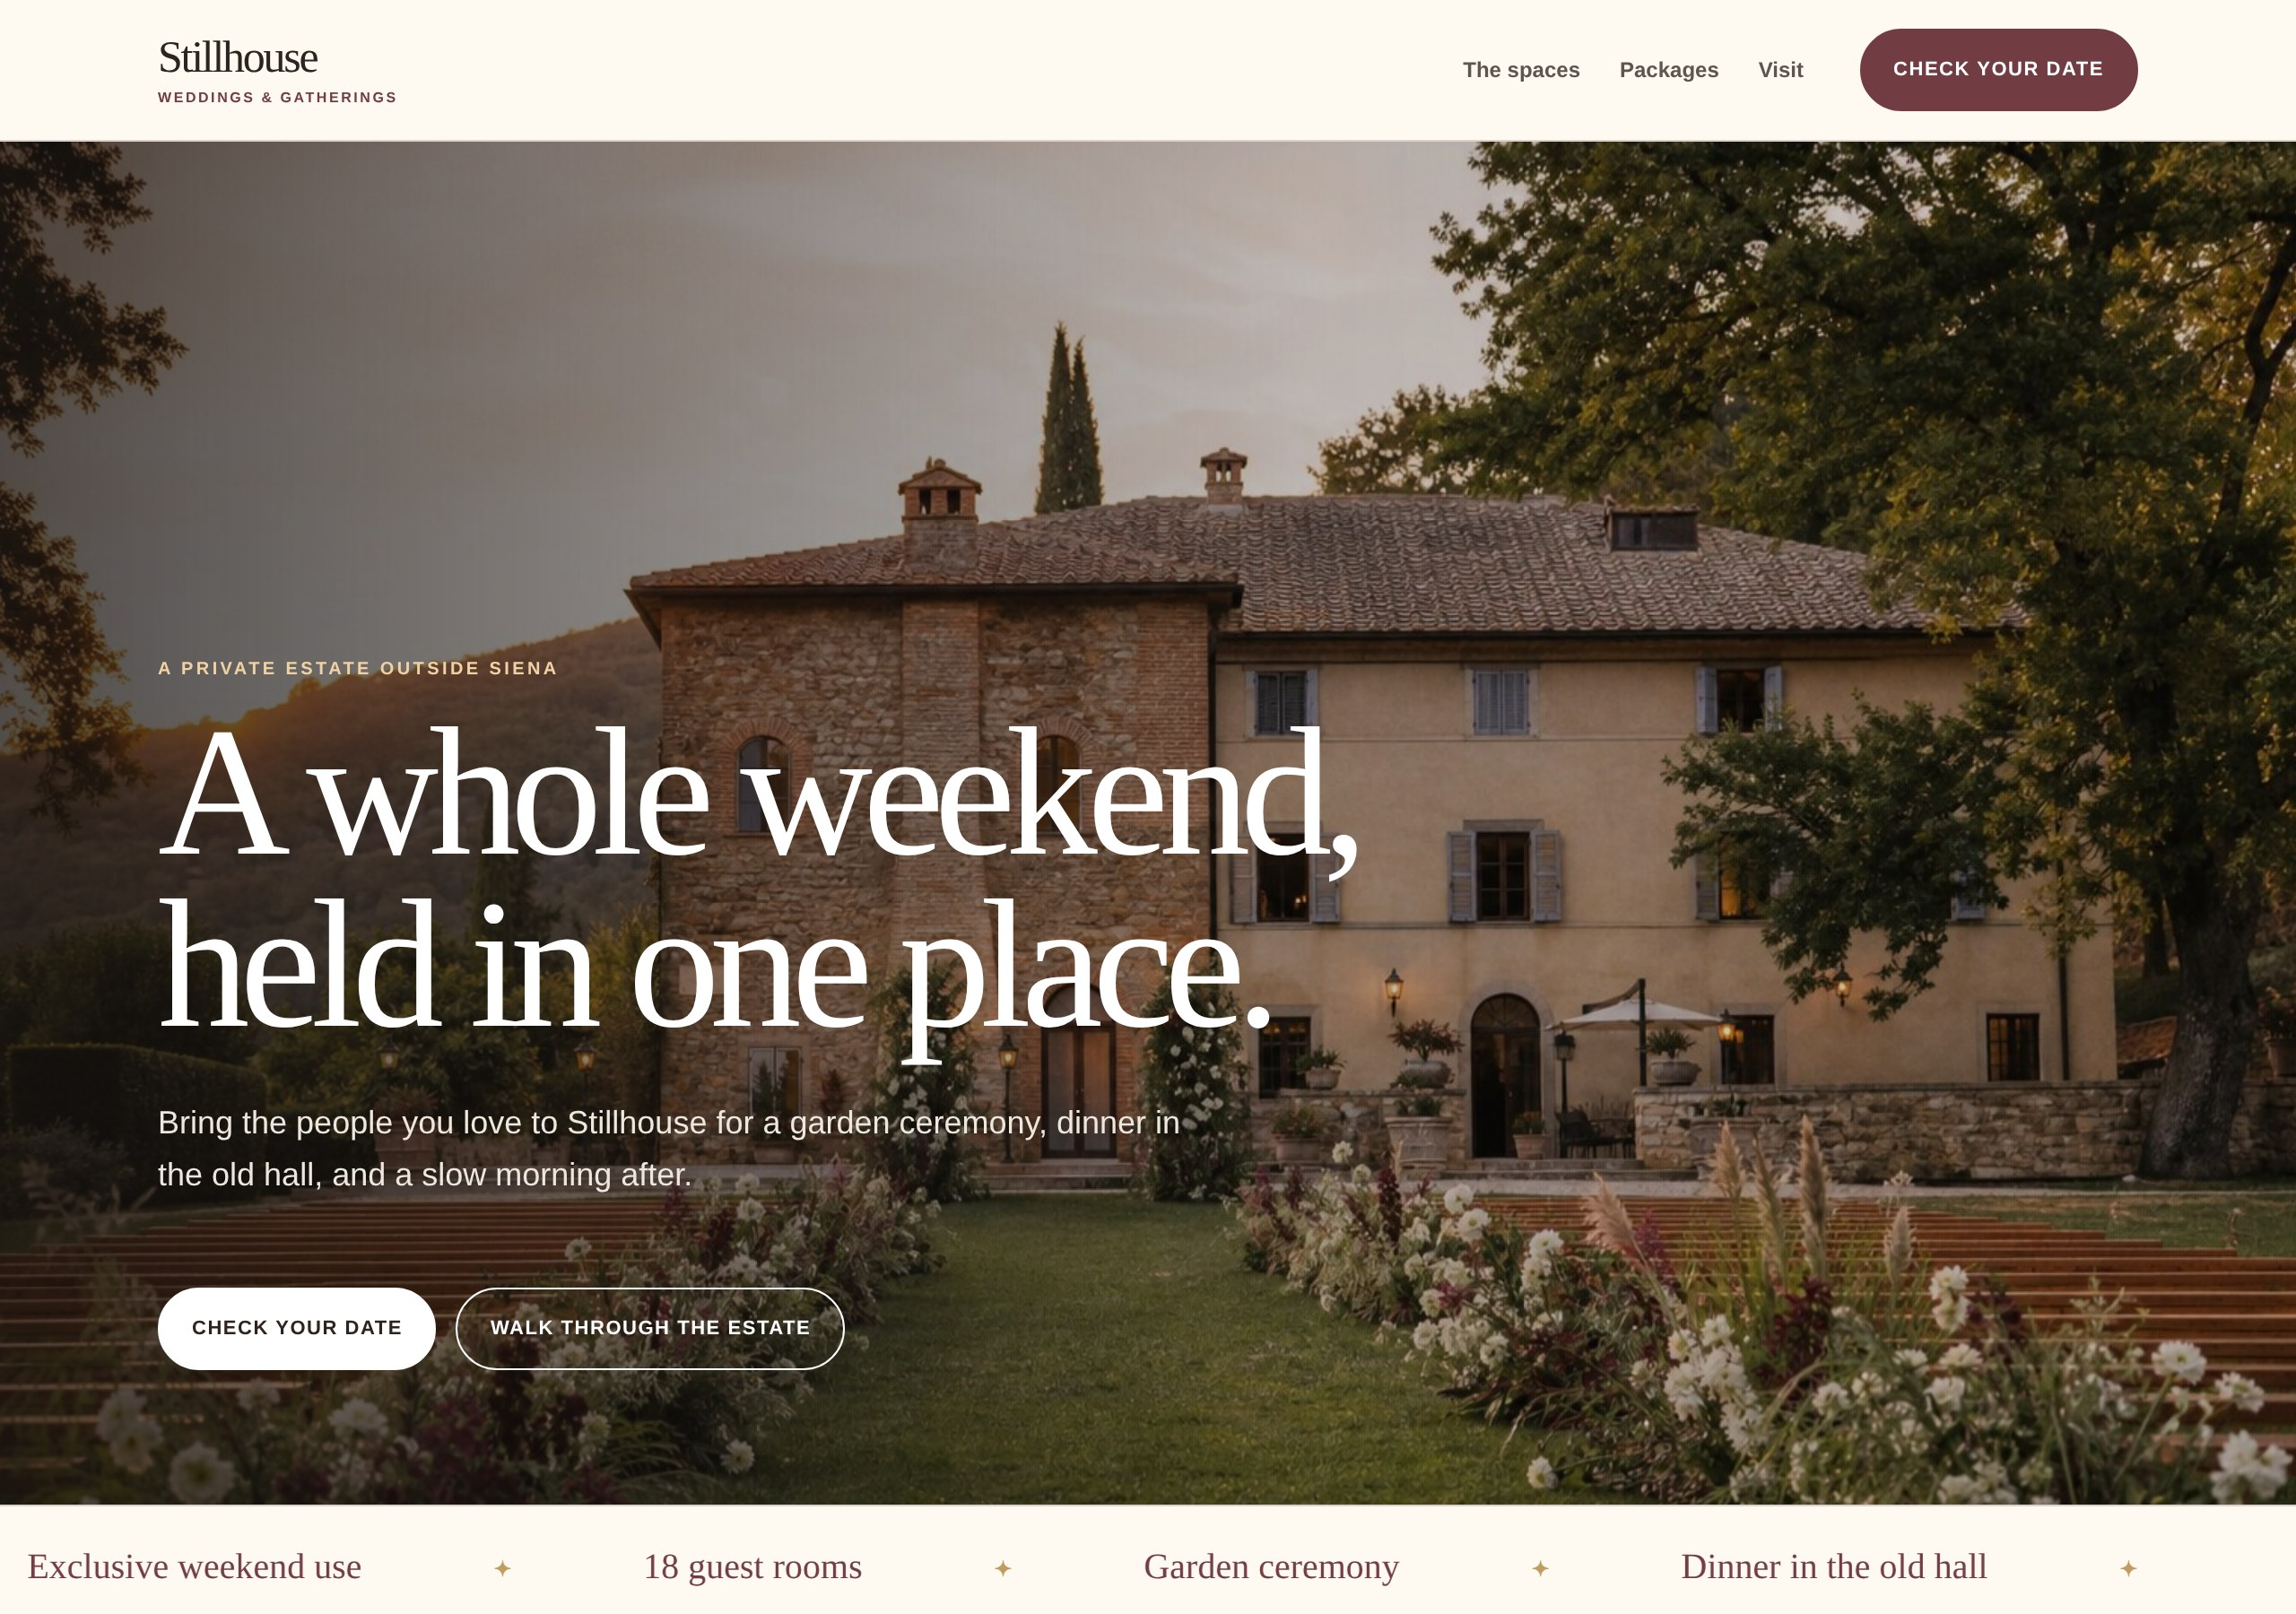
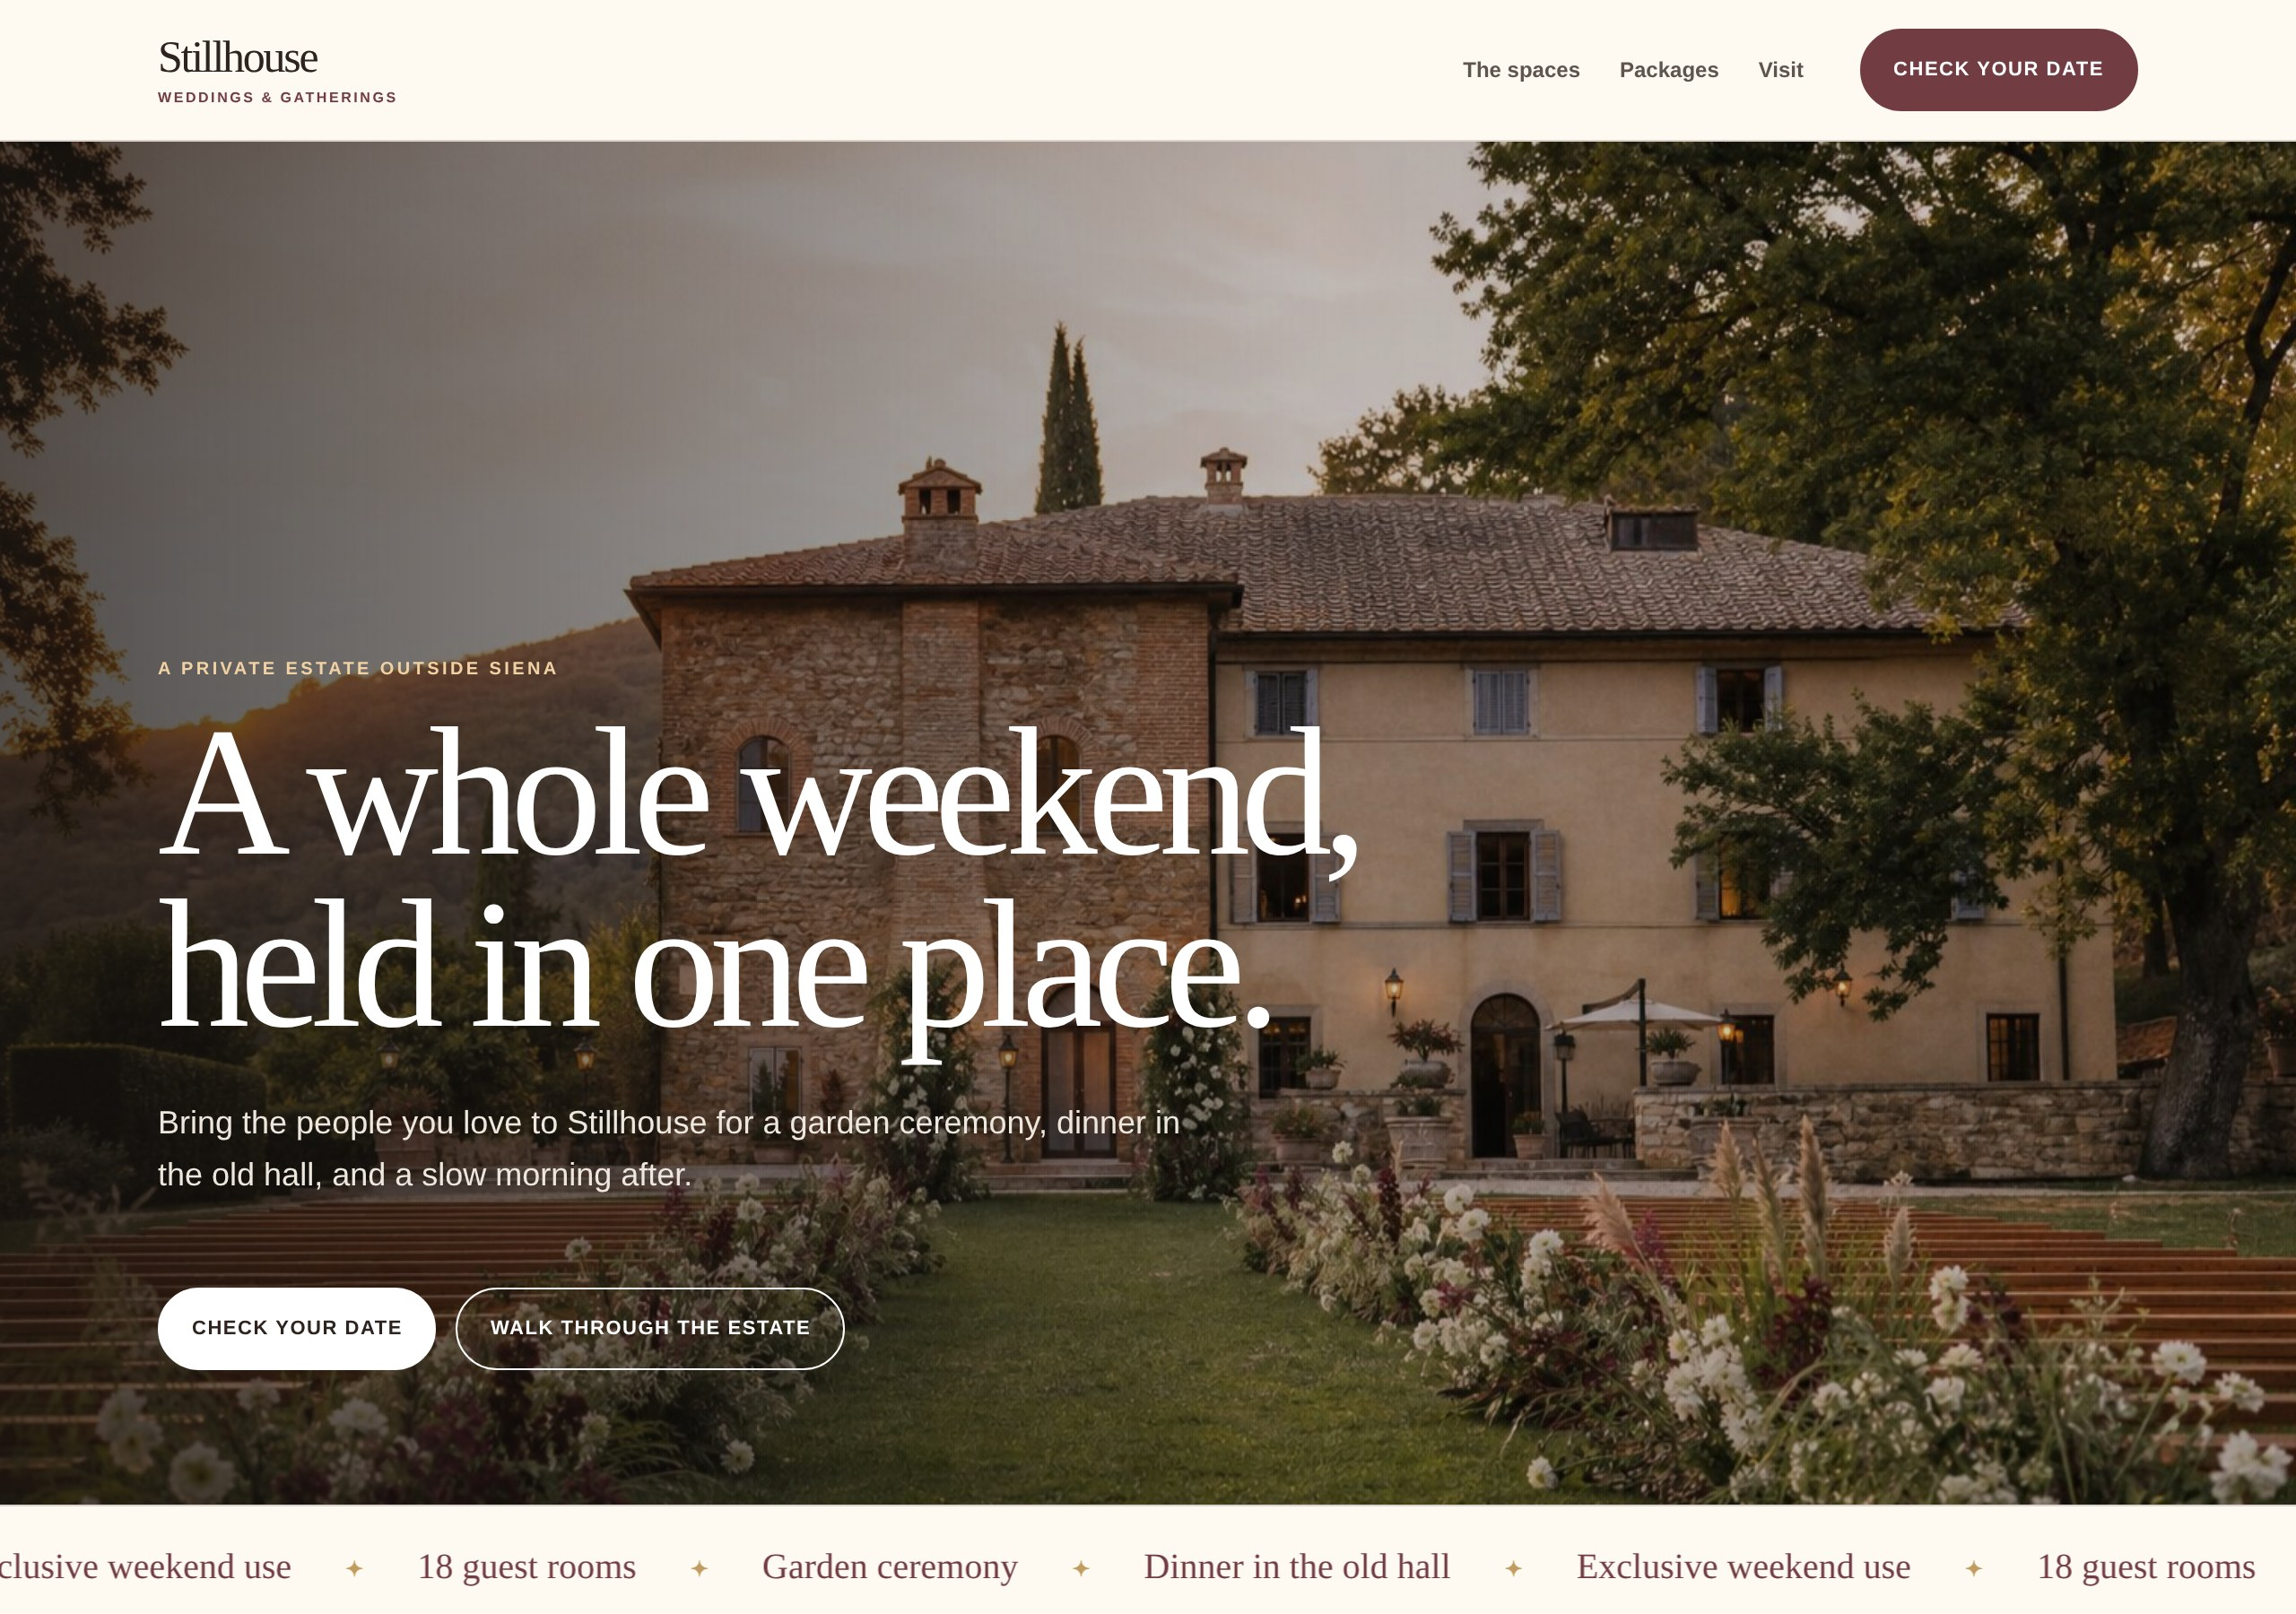
Refine marquee loop speed and spacing

diff --git a/templates/handmade-skincare-shop/index.html b/templates/handmade-skincare-shop/index.html
@@ -7,7 +7,8 @@
   <style>
     :root{--sb-cream:#f3eee3;--sb-paper:#fffaf0;--sb-ink:#26342b;--sb-muted:#687168;--sb-olive:#53634c;--sb-clay:#b8613f;--sb-oat:#d8c29b;--sb-line:rgba(38,52,43,.16);--sb-max-width:1200px;--sb-section-x:clamp(20px,5vw,58px);--sb-section-y:clamp(64px,8vw,110px);--sb-serif:Georgia,'Times New Roman',serif;--sb-sans:Arial,Helvetica,sans-serif}*{box-sizing:border-box}html{scroll-behavior:smooth}body{margin:0;background:var(--sb-cream);color:var(--sb-ink);font-family:var(--sb-sans)}a{color:inherit;text-decoration:none}img{display:block;width:100%;max-width:100%}button,input{font:inherit}[hidden]{display:none!important}.sb-page{overflow:hidden}.sb-section-inner,.sb-nav{width:min(100%,var(--sb-max-width));margin:auto;padding-left:var(--sb-section-x);padding-right:var(--sb-section-x)}.sb-section-inner{padding-top:var(--sb-section-y);padding-bottom:var(--sb-section-y)}.eyebrow{margin:0 0 15px;color:var(--sb-clay);font-size:10px;font-weight:800;letter-spacing:.17em;text-transform:uppercase}h1,h2,h3,p{margin-top:0}h1,h2{font-family:var(--sb-serif);font-weight:400;letter-spacing:-.055em;line-height:.94}h1{max-width:690px;margin-bottom:24px;font-size:clamp(52px,7.8vw,100px)}h2{max-width:720px;margin-bottom:20px;font-size:clamp(38px,5vw,66px)}h3{margin-bottom:9px;font-size:18px}.lead{max-width:580px;color:var(--sb-muted);font-size:18px;line-height:1.65}.sb-nav-wrap{position:relative;z-index:5;background:var(--sb-paper);border-bottom:1px solid var(--sb-line)}.sb-nav{min-height:76px;display:flex;align-items:center;gap:26px}.sb-brand{font-family:var(--sb-serif);font-size:25px;letter-spacing:-.045em}.sb-brand small{display:block;margin-top:2px;color:var(--sb-clay);font-family:var(--sb-sans);font-size:8px;font-weight:800;letter-spacing:.17em;text-transform:uppercase}.sb-nav-links{display:flex;gap:22px;margin-left:auto;color:#5d665e;font-size:12px;font-weight:700}.sb-nav-actions{margin-left:4px}.sb-btn{display:inline-flex;align-items:center;justify-content:center;min-height:46px;padding:12px 18px;border:1px solid var(--sb-ink);border-radius:999px;font-size:11px;font-weight:800;letter-spacing:.07em;text-transform:uppercase;transition:transform .2s ease,background-color .2s ease,color .2s ease}.sb-btn:hover{transform:translateY(-2px);background:var(--sb-ink);color:#fff}.sb-btn-primary{border-color:var(--sb-ink);background:var(--sb-ink);color:#fff}.sb-nav-toggle{display:none;margin-left:auto;border:0;background:transparent;font-size:23px}.sb-mobile-menu{padding:0 var(--sb-section-x) 17px;background:var(--sb-paper)}.sb-mobile-menu a{display:block;padding:10px 0;font-size:13px;font-weight:700}.hero{background:var(--sb-oat)}.hero-grid{display:grid;grid-template-columns:.88fr 1.12fr;align-items:stretch}.hero-copy{padding:clamp(72px,10vw,132px) var(--sb-section-x);padding-left:max(var(--sb-section-x),calc((100vw - var(--sb-max-width))/2 + var(--sb-section-x)))}.hero-copy .lead{color:#596457}.hero-visual{min-height:670px;overflow:hidden}.hero-visual img{height:100%;object-fit:cover;animation:sb-image-drift 12s ease-in-out infinite alternate;will-change:transform}.hero-actions{display:flex;flex-wrap:wrap;gap:11px;margin-top:29px}.hero-note{margin:25px 0 0;color:#596457;font-size:12px;font-weight:700}.sb-marquee{min-height:66px;display:flex;align-items:center;overflow:hidden;background:var(--sb-ink);color:#fffaf0;border-top:1px solid rgba(255,255,255,.13);border-bottom:1px solid rgba(255,255,255,.13)}.sb-marquee-track{display:flex;width:max-content;animation:sb-marquee 24s linear infinite;will-change:transform}.sb-marquee-group{display:flex;flex-shrink:0;align-items:center}.sb-marquee span{display:flex;align-items:center;gap:27px;padding-right:27px;white-space:nowrap;font-family:var(--sb-serif);font-size:18px}.sb-marquee b{color:#efbf98;font-family:var(--sb-sans);font-size:12px}.sb-motion-ready .sb-section-inner{opacity:0;transform:translateY(24px);transition:opacity .7s ease-out,transform .7s ease-out}.sb-motion-ready .sb-section-inner.is-visible{opacity:1;transform:none}.need{background:var(--sb-paper)}.need-head{display:grid;grid-template-columns:1.1fr .9fr;gap:40px;align-items:end;margin-bottom:42px}.need-head p{max-width:450px;margin-bottom:4px;color:var(--sb-muted);line-height:1.65}.need-grid{display:grid;grid-template-columns:repeat(3,1fr);gap:15px}.need-card{min-height:240px;padding:26px;border:1px solid var(--sb-line);background:#f7f1e4;display:flex;flex-direction:column;transition:transform .3s ease-out}.need-card:hover{transform:translateY(-7px)}.need-card:nth-child(2){background:#e4e1d1}.need-card:nth-child(3){background:#e9cbb9}.need-card span{margin-top:auto;color:var(--sb-clay);font-size:11px;font-weight:800}.shop{background:var(--sb-olive);color:#fffaf0}.shop .eyebrow{color:#efbf98}.shop-layout{display:grid;grid-template-columns:1fr 1fr;gap:clamp(35px,7vw,92px);align-items:center}.shop-image{position:relative;margin:0;overflow:hidden}.shop-image img{aspect-ratio:4/3;object-fit:cover;transition:transform .8s ease-out}.shop-image:hover img{transform:scale(1.035)}.shop-stamp{position:absolute;right:-18px;bottom:22px;width:126px;height:126px;padding:31px 15px;border-radius:50%;background:var(--sb-clay);color:#fff;font-family:var(--sb-serif);font-size:17px;line-height:1.05;text-align:center;transform:rotate(-8deg)}.product-list{border-top:1px solid rgba(255,255,255,.32)}.product{display:grid;grid-template-columns:1fr auto;gap:18px;padding:20px 0;border-bottom:1px solid rgba(255,255,255,.25);transition:transform .25s ease-out}.product:hover{transform:translateX(8px)}.product h3{margin:0 0 5px;font-family:var(--sb-serif);font-size:24px;font-weight:400}.product p{margin:0;color:#dce5db;font-size:13px;line-height:1.5}.product strong{font-family:var(--sb-serif);font-size:21px;font-weight:400}.ingredients{background:#e8dfca}.ingredient-grid{display:grid;grid-template-columns:.9fr 1.1fr;gap:clamp(35px,7vw,96px);align-items:start}.ingredient-list{display:grid;grid-template-columns:1fr 1fr;gap:12px}.ingredient{padding:22px;background:rgba(255,250,240,.66);border-top:3px solid var(--sb-clay)}.ingredient small{color:var(--sb-clay);font-weight:800;letter-spacing:.08em;text-transform:uppercase}.ingredient p{margin:8px 0 0;color:var(--sb-muted);font-size:14px;line-height:1.5}.proof{background:var(--sb-paper)}.proof-grid{display:grid;grid-template-columns:repeat(3,1fr);gap:18px}.quote{padding:28px;border:1px solid var(--sb-line)}.quote p{font-family:var(--sb-serif);font-size:22px;line-height:1.35}.quote small{color:var(--sb-muted);font-weight:700}.routine{background:var(--sb-clay);color:#fff8ee}.routine-grid{display:grid;grid-template-columns:1.15fr .85fr;gap:60px;align-items:end}.routine .eyebrow{color:#ffd5b7}.routine .lead{color:#f7ded0}.routine-card{padding:28px;border:1px solid rgba(255,255,255,.45);background:rgba(70,30,19,.15)}.routine-card p{font-size:14px;line-height:1.6}.routine-card .sb-btn{margin-top:7px;border-color:#fff8ee;background:#fff8ee;color:#64321f}footer{padding:23px;background:var(--sb-ink);color:#ced6ce;font-size:11px;text-align:center}@keyframes sb-marquee{to{transform:translateX(-50%)}}@keyframes sb-image-drift{from{transform:scale(1.01) translateX(0)}to{transform:scale(1.06) translateX(-1.5%)}}@media(max-width:820px){.sb-nav-links{display:none}.sb-nav-actions{margin-left:auto}.sb-nav-toggle{display:block}.hero-grid,.need-head,.shop-layout,.ingredient-grid,.routine-grid{grid-template-columns:1fr}.hero-copy{padding:74px var(--sb-section-x) 38px}.hero-visual{min-height:auto}.hero-visual img{aspect-ratio:4/3}.sb-marquee{min-height:56px}.sb-marquee span{font-size:16px}.need-grid,.proof-grid{grid-template-columns:1fr}.ingredient-list{grid-template-columns:1fr 1fr}.shop-stamp{right:10px}.sb-nav-actions .sb-btn{min-height:38px;padding:9px 11px;font-size:9px}}@media(max-width:520px){.ingredient-list{grid-template-columns:1fr}.sb-nav-actions{display:none}}@media(prefers-reduced-motion:reduce){*{animation:none!important;scroll-behavior:auto!important;transition:none!important}.sb-motion-ready .sb-section-inner{opacity:1!important;transform:none!important}}
 </style>
-<style>main{display:flex;flex-direction:column}.sb-marquee{order:-1}.sb-marquee-group{min-width:100vw}.sb-marquee span{width:100%;box-sizing:border-box;justify-content:space-around;padding-left:27px}</style>
+<style>main{display:flex;flex-direction:column}.sb-marquee{order:-1}.sb-marquee-group{min-width:0}.sb-marquee span{width:auto;flex:0 0 auto;justify-content:flex-start;padding-left:0}</style>
+<script>addEventListener('DOMContentLoaded',()=>{const fill=()=>{const groups=[...document.querySelectorAll('.sb-marquee-group')];groups.forEach(g=>{const s=g.firstElementChild;if(!s)return;while(g.children.length>1)g.lastElementChild.remove();const w=Math.max(s.getBoundingClientRect().width,1),n=Math.max(2,Math.ceil(innerWidth/w)+1);for(let i=1;i<n;i++){const c=s.cloneNode(true);c.setAttribute('aria-hidden','true');g.append(c)}});const g=groups[0],track=g?.parentElement;if(g&&track)track.style.animationDuration=Math.max(36,g.scrollWidth/32)+'s'};fill();let q;addEventListener('resize',()=>{clearTimeout(q);q=setTimeout(fill,150)})})</script>
 </head>
 <body><div id="top" class="sb-page"><header class="sb-nav-wrap"><nav class="sb-nav" data-sb-component="nav" aria-label="Primary navigation"><a class="sb-brand" data-sb-role="brand" href="#top">Wildwell<small>Small-batch skin care</small></a><div class="sb-nav-links" data-sb-role="nav-links"><a href="#shop">Shop</a><a href="#ingredients">Ingredients</a><a href="#routine">Find your routine</a></div><div class="sb-nav-actions"><a class="sb-btn sb-btn-primary" href="#shop">Shop the ritual</a></div><button class="sb-nav-toggle" type="button" aria-label="Open menu" aria-controls="sb-mobile-menu" aria-expanded="false">☰</button></nav><div id="sb-mobile-menu" class="sb-mobile-menu" data-sb-component="mobile-menu" hidden><a href="#shop">Shop</a><a href="#ingredients">Ingredients</a><a href="#routine">Find your routine</a></div></header><main>
 <section class="sb-section hero" data-sb-role="section"><div class="hero-grid"><div class="hero-copy"><p class="eyebrow">Mixed by hand · made for everyday skin</p><h1 data-sb-role="section-heading">Three good products. One calmer routine.</h1><p class="lead">Wildwell makes gentle skin care in small batches, with ingredients you can pronounce and a routine you can keep.</p><div class="hero-actions"><a class="sb-btn sb-btn-primary" href="#shop">Shop the 3-step ritual</a><a class="sb-btn" href="#routine">Help me choose</a></div><p class="hero-note">Free delivery over €45 · 30-day returns · made in Utrecht</p></div><figure class="hero-visual"><img src="https://sitesbuddy.github.io/sitesbuddy-templates/templates/handmade-skincare-shop/assets/ritual-hero.jpg" alt="Amber face oil and cream jar on pale stone" loading="eager"></figure></div></section><div class="sb-marquee" aria-label="Wildwell product qualities"><div class="sb-marquee-track"><div class="sb-marquee-group"><span>Small batches <b>✦</b> Fragrance free <b>✦</b> Full ingredient lists <b>✦</b> Made in Utrecht <b>✦</b></span></div><div class="sb-marquee-group" aria-hidden="true"><span>Small batches <b>✦</b> Fragrance free <b>✦</b> Full ingredient lists <b>✦</b> Made in Utrecht <b>✦</b></span></div></div></div>

diff --git a/templates/saas-product-launch/index.html b/templates/saas-product-launch/index.html
@@ -27,7 +27,8 @@
     @media(max-width:820px){.sb-marquee{min-height:57px}.sb-marquee span{font-size:12px}.dashboard{animation-duration:4.5s}}
     @media(prefers-reduced-motion:reduce){*{animation:none!important}.sb-motion-ready .sb-section-inner{opacity:1!important;transform:none!important}}
   </style>
-  <style>main{display:flex;flex-direction:column}.sb-marquee{order:-1}.sb-marquee-group{min-width:100vw}.sb-marquee span{width:100%;box-sizing:border-box;justify-content:space-around;padding-left:26px}</style>
+  <style>main{display:flex;flex-direction:column}.sb-marquee{order:-1}.sb-marquee-group{min-width:0}.sb-marquee span{width:auto;flex:0 0 auto;justify-content:flex-start;padding-left:0}</style>
+  <script>addEventListener('DOMContentLoaded',()=>{const fill=()=>{const groups=[...document.querySelectorAll('.sb-marquee-group')];groups.forEach(g=>{const s=g.firstElementChild;if(!s)return;while(g.children.length>1)g.lastElementChild.remove();const w=Math.max(s.getBoundingClientRect().width,1),n=Math.max(2,Math.ceil(innerWidth/w)+1);for(let i=1;i<n;i++){const c=s.cloneNode(true);c.setAttribute('aria-hidden','true');g.append(c)}});const g=groups[0],track=g?.parentElement;if(g&&track)track.style.animationDuration=Math.max(36,g.scrollWidth/32)+'s'};fill();let q;addEventListener('resize',()=>{clearTimeout(q);q=setTimeout(fill,150)})})</script>
 </head>
 <body><div id="top" class="sb-page"><header class="sb-nav-wrap"><nav class="sb-nav" data-sb-component="nav" aria-label="Primary navigation"><a class="sb-brand" data-sb-role="brand" href="#top"><i></i>Relay</a><div class="sb-nav-links" data-sb-role="nav-links"><a href="#product">Product</a><a href="#results">Results</a><a href="#start">Pricing</a></div><div class="sb-nav-actions"><a class="sb-btn sb-btn-primary" href="#start">Try a sample project</a></div><button class="sb-nav-toggle" type="button" aria-label="Open menu" aria-controls="sb-mobile-menu" aria-expanded="false">☰</button></nav><div id="sb-mobile-menu" class="sb-mobile-menu" data-sb-component="mobile-menu" hidden><a href="#product">Product</a><a href="#results">Results</a><a href="#start">Pricing</a></div></header><main>
 <section class="sb-section hero" data-sb-role="section"><div class="sb-section-inner hero-inner"><p class="eyebrow">Project handoffs without the status chase</p><h1 data-sb-role="section-heading">Know what is moving before the meeting starts.</h1><p class="lead">Relay turns project updates, approvals, and handoffs into one clear view. Your team sees the next move without asking for another status call.</p><div class="hero-actions"><a class="sb-btn sb-btn-primary" href="#start">Start with a sample project</a><a class="sb-btn" href="#product">See the two-minute workflow</a></div><p class="hero-note">Free for one active project · no card required · set up in 4 minutes</p><div class="dashboard" aria-label="Relay project dashboard preview"><div class="dash-bar"><span class="dot"></span><span class="dot"></span><span class="dot"></span></div><div class="dash-body"><aside class="dash-side"><strong>Relay</strong><div class="dash-link active">Launch board</div><div class="dash-link">Approvals</div><div class="dash-link">Notes</div><div class="dash-link">Team</div></aside><div class="dash-main"><div class="dash-head"><div><p class="eyebrow">Website launch</p><h3>Friday handoff</h3></div><span class="status">ON TRACK</span></div><div class="metric-grid"><div class="metric"><small>OPEN TASKS</small><strong>12</strong></div><div class="metric"><small>WAITING ON</small><strong>3</strong></div><div class="metric"><small>DAYS LEFT</small><strong>08</strong></div></div><div class="board"><div class="lane"><div class="lane-title">READY</div><div class="task">Homepage copy<br><small>Owner · Maya</small></div><div class="task">Pricing proof<br><small>Owner · Jon</small></div></div><div class="lane"><div class="lane-title">IN REVIEW</div><div class="task">Product tour<br><small>Due today</small></div></div><div class="lane"><div class="lane-title">APPROVED</div><div class="task">Launch email<br><small>Approved 10:42</small></div></div></div></div></div></div></div></section><div class="sb-marquee" aria-label="Relay workflow benefits"><div class="sb-marquee-track"><div class="sb-marquee-group"><span>Clear owner <b>◆</b> One review lane <b>◆</b> Fewer status calls <b>◆</b> Decisions stay with the work <b>◆</b></span></div><div class="sb-marquee-group" aria-hidden="true"><span>Clear owner <b>◆</b> One review lane <b>◆</b> Fewer status calls <b>◆</b> Decisions stay with the work <b>◆</b></span></div></div></div>

diff --git a/templates/wedding-event-venue/index.html b/templates/wedding-event-venue/index.html
@@ -27,7 +27,8 @@
     @media(max-width:820px){.sb-marquee{min-height:58px}.sb-marquee span{font-size:17px}}
     @media(prefers-reduced-motion:reduce){*{animation:none!important}.sb-motion-ready .sb-section-inner{opacity:1!important;transform:none!important}}
   </style>
-  <style>.sb-marquee-group{min-width:100vw}.sb-marquee span{width:100%;box-sizing:border-box;justify-content:space-around;padding-left:30px}</style>
+  <style>.sb-marquee-group{min-width:0}.sb-marquee span{width:auto;flex:0 0 auto;justify-content:flex-start;padding-left:0}</style>
+  <script>addEventListener('DOMContentLoaded',()=>{const fill=()=>{const groups=[...document.querySelectorAll('.sb-marquee-group')];groups.forEach(g=>{const s=g.firstElementChild;if(!s)return;while(g.children.length>1)g.lastElementChild.remove();const w=Math.max(s.getBoundingClientRect().width,1),n=Math.max(2,Math.ceil(innerWidth/w)+1);for(let i=1;i<n;i++){const c=s.cloneNode(true);c.setAttribute('aria-hidden','true');g.append(c)}});const g=groups[0],track=g?.parentElement;if(g&&track)track.style.animationDuration=Math.max(36,g.scrollWidth/32)+'s'};fill();let q;addEventListener('resize',()=>{clearTimeout(q);q=setTimeout(fill,150)})})</script>
 </head>
 <body><div id="top" class="sb-page"><header class="sb-nav-wrap"><nav class="sb-nav" data-sb-component="nav" aria-label="Primary navigation"><a class="sb-brand" data-sb-role="brand" href="#top">Stillhouse<small>Weddings & gatherings</small></a><div class="sb-nav-links" data-sb-role="nav-links"><a href="#spaces">The spaces</a><a href="#packages">Packages</a><a href="#inquiry">Visit</a></div><div class="sb-nav-actions"><a class="sb-btn sb-btn-primary" href="#inquiry">Check your date</a></div><button class="sb-nav-toggle" type="button" aria-label="Open menu" aria-controls="sb-mobile-menu" aria-expanded="false">☰</button></nav><div id="sb-mobile-menu" class="sb-mobile-menu" data-sb-component="mobile-menu" hidden><a href="#spaces">The spaces</a><a href="#packages">Packages</a><a href="#inquiry">Visit</a></div></header><main>
 <section class="sb-section hero" data-sb-role="section"><div class="hero-bg"><img src="https://sitesbuddy.github.io/sitesbuddy-templates/templates/wedding-event-venue/assets/estate-hero.jpg" alt="Country estate prepared for an outdoor wedding at sunset" loading="eager"></div><div class="sb-section-inner hero-inner"><p class="eyebrow">A private estate outside Siena</p><h1 data-sb-role="section-heading">A whole weekend, held in one place.</h1><p class="lead">Bring the people you love to Stillhouse for a garden ceremony, dinner in the old hall, and a slow morning after.</p><div class="hero-actions"><a class="sb-btn sb-btn-primary" href="#inquiry">Check your date</a><a class="sb-btn" href="#spaces">Walk through the estate</a></div></div></section><div class="sb-marquee" aria-label="Stillhouse venue highlights"><div class="sb-marquee-track"><div class="sb-marquee-group"><span>Exclusive weekend use <b>✦</b> 18 guest rooms <b>✦</b> Garden ceremony <b>✦</b> Dinner in the old hall <b>✦</b></span></div><div class="sb-marquee-group" aria-hidden="true"><span>Exclusive weekend use <b>✦</b> 18 guest rooms <b>✦</b> Garden ceremony <b>✦</b> Dinner in the old hall <b>✦</b></span></div></div></div>